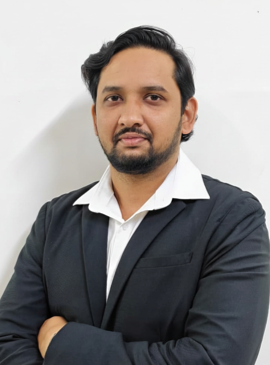
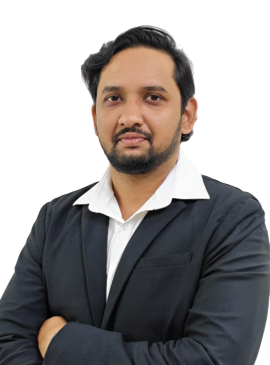
Team: CEO first, uniform grey gradient cards, photos in colour with hover zoom

diff --git a/src/data/media.js b/src/data/media.js
@@ -22,48 +22,48 @@
    A flat 58% dark overlay sits on top, so mid-tone images with
    space on the left work best — that is where the text sits. */
 export const heroes = {
-    home: "/hero/home.png",
-    about: "/hero/about.png",
-    productsServices: "/hero/products-services.png",
-    services: "",   // "/hero/services.jpg"
-    clients: "/hero/clients.png",
-    careers: "",    // "/hero/careers.jpg"
-    contact: "/hero/contact.png",
+  home: "/hero/home.png",
+  about: "/hero/about.png",
+  productsServices: "/hero/products-services.png",
+  services: "",   // "/hero/services.jpg"
+  clients: "/hero/clients.png",
+  careers: "",    // "/hero/careers.jpg"
+  contact: "/hero/contact.png",
 };
 
 /* ---------- PRODUCT CATEGORIES ----------
    Portrait, 4:5, at least 1000×1250.
    Added as we convert Products.jsx. */
 export const products = {
-    "mens-wear": "/products/mens-wear.png",
-    "womens-wear": "/products/womens-wear.png",
-    "kids-wear": "/products/kids-wear.png",
-    caps: "/products/caps.png",
-    "product-photography": "",
+  "mens-wear": "/products/mens-wear.png",
+  "womens-wear": "/products/womens-wear.png",
+  "kids-wear": "/products/kids-wear.png",
+  caps: "/products/caps.png",
+  "product-photography": "",
 };
 
 /* ---------- SERVICES ----------
    Landscape, 5:4, at least 1200×960.
    Added as we convert Services.jsx. */
 export const services = {
-    "design-development": "",
-    sampling: "",
-    manufacturing: "",
-    "fabric-sourcing": "",
+  "design-development": "",
+  sampling: "",
+  manufacturing: "",
+  "fabric-sourcing": "",
 };
 
 /* ---------- ABOUT / COMPANY ----------
    Added as we convert About.jsx. */
 export const about = {
-    overview: "/about/overview.png",   // facility or head office, 5:4
-      ceoPortrait: "/about/ceo.png",        // desktop cut-out, transparent PNG, full length
-    designStudio: "/about/design-studio.png",
-    chinaSourcing: "/about/china-sourcing.png",
+  overview: "/about/overview.png",   // facility or head office, 5:4
+  ceoPortrait: "/about/ceo.png",        // desktop cut-out, transparent PNG, full length
+  designStudio: "/about/design-studio.png",
+  chinaSourcing: "/about/china-sourcing.png",
 };
 
 /* ---------- CAREERS ---------- */
 export const careers = {
-    lifeAtPfg: "",     // 5:4
+  lifeAtPfg: "",     // 5:4
 };
 
 /* ---------- CLIENT LOGOS ----------
@@ -75,36 +75,36 @@ export const careers = {
    Replace each "Client" with the real brand name once known — it becomes
    the alt text and what buyers and search engines actually read. */
 export const clientLogos = [
-    { name: "Client", logo: "/clients/client-01.png" },
-    { name: "Client", logo: "/clients/client-02.png" },
-    { name: "Client", logo: "/clients/client-03.jpg" },
-    { name: "Client", logo: "/clients/client-04.png" },
-    { name: "Client", logo: "/clients/client-05.png" },
-    { name: "Client", logo: "/clients/client-06.png" },
-    { name: "Client", logo: "/clients/client-07.png" },
-    { name: "Client", logo: "/clients/client-08.png" },
-    { name: "Client", logo: "/clients/client-09.png" },
-    { name: "Client", logo: "/clients/client-10.png" },
-    { name: "Client", logo: "/clients/client-11.jpg" },
-    { name: "Client", logo: "/clients/client-12.png" },
-    { name: "Client", logo: "/clients/client-13.png" },
-    { name: "Client", logo: "/clients/client-14.png" },
-    { name: "Client", logo: "/clients/client-15.jpg" },
-    { name: "Client", logo: "/clients/client-16.png" },
-    { name: "Client", logo: "/clients/client-17.jpg" },
-    { name: "Client", logo: "/clients/client-18.png" },
-    { name: "Client", logo: "/clients/client-19.jpg" },
-    { name: "Client", logo: "/clients/client-20.jpg" },
-    { name: "Client", logo: "/clients/client-21.png" },
-    { name: "Client", logo: "/clients/client-22.jpg" },
-    { name: "Client", logo: "/clients/client-23.png" },
-    { name: "Client", logo: "/clients/client-24.png" },
-    { name: "Client", logo: "/clients/client-25.jpg" },
-    { name: "Client", logo: "/clients/client-26.jpg" },
-    { name: "Client", logo: "/clients/client-27.png" },
-    { name: "Client", logo: "/clients/client-28.jpg" },
-    { name: "Client", logo: "/clients/client-29.jpg" },
-    { name: "Client", logo: "/clients/client-30.jpg" },
+  { name: "Client", logo: "/clients/client-01.png" },
+  { name: "Client", logo: "/clients/client-02.png" },
+  { name: "Client", logo: "/clients/client-03.jpg" },
+  { name: "Client", logo: "/clients/client-04.png" },
+  { name: "Client", logo: "/clients/client-05.png" },
+  { name: "Client", logo: "/clients/client-06.png" },
+  { name: "Client", logo: "/clients/client-07.png" },
+  { name: "Client", logo: "/clients/client-08.png" },
+  { name: "Client", logo: "/clients/client-09.png" },
+  { name: "Client", logo: "/clients/client-10.png" },
+  { name: "Client", logo: "/clients/client-11.jpg" },
+  { name: "Client", logo: "/clients/client-12.png" },
+  { name: "Client", logo: "/clients/client-13.png" },
+  { name: "Client", logo: "/clients/client-14.png" },
+  { name: "Client", logo: "/clients/client-15.jpg" },
+  { name: "Client", logo: "/clients/client-16.png" },
+  { name: "Client", logo: "/clients/client-17.jpg" },
+  { name: "Client", logo: "/clients/client-18.png" },
+  { name: "Client", logo: "/clients/client-19.jpg" },
+  { name: "Client", logo: "/clients/client-20.jpg" },
+  { name: "Client", logo: "/clients/client-21.png" },
+  { name: "Client", logo: "/clients/client-22.jpg" },
+  { name: "Client", logo: "/clients/client-23.png" },
+  { name: "Client", logo: "/clients/client-24.png" },
+  { name: "Client", logo: "/clients/client-25.jpg" },
+  { name: "Client", logo: "/clients/client-26.jpg" },
+  { name: "Client", logo: "/clients/client-27.png" },
+  { name: "Client", logo: "/clients/client-28.jpg" },
+  { name: "Client", logo: "/clients/client-29.jpg" },
+  { name: "Client", logo: "/clients/client-30.jpg" },
 ];
 
 /* ---------- HELPER ----------
@@ -134,12 +134,12 @@ export const hasMedia = (path) => typeof path === "string" && path.length > 0;
    Files in public/brands/. Update the names as confirmed —
    they become the alt text. */
 export const brands = [
-    { name: "Lexi Morgan", logo: "/brands/brand-01.png" },
-    { name: "Brand partner", logo: "/brands/brand-02.png" },
-    { name: "Qube", logo: "/brands/brand-03.png" },
-    { name: "Premier Sport", logo: "/brands/brand-04.png" },
-    { name: "Premier Life", logo: "/brands/brand-05.png" },
-    { name: "Brand partner", logo: "/brands/brand-06.png" },
+  { name: "Lexi Morgan", logo: "/brands/brand-01.png" },
+  { name: "Brand partner", logo: "/brands/brand-02.png" },
+  { name: "Qube", logo: "/brands/brand-03.png" },
+  { name: "Premier Sport", logo: "/brands/brand-04.png" },
+  { name: "Premier Life", logo: "/brands/brand-05.png" },
+  { name: "Brand partner", logo: "/brands/brand-06.png" },
 ];
 
 /* ---------- CATEGORY TILES ----------
@@ -156,9 +156,9 @@ export const categoryImages = {
 };
 
 export const teamPhotos = {
-  jamaluddin: "/about/ceo.png",
-  "farhan-raza": "/team/raza-farhan.png",
-  "abdul-ahad": "/team/abdul-ahad.png",
+  jamaluddin: "/team/jamaluddin.png",
+  "farhan-raza": "/team/raza-farhan.webp",
+  "abdul-ahad": "/team/abdul-ahad.webp",
   "chu-dao-linh-suong": "/team/chu-dao-linh-suong.png",
   "kadiravelu-saravana-kumar": "/team/kadiravelu-saravana-kumar.png",
   "ketan-patel": "/team/ketan-patel.png",

diff --git a/src/sections/Team.jsx b/src/sections/Team.jsx
@@ -31,16 +31,13 @@ export default function Team() {
                                 <article className="group h-full cursor-pointer">
                                     {/* one shared grey ground behind every portrait, so
                       background-removed PNGs all sit on the same card */}
-                                    <div className="relative overflow-hidden bg-page transition-shadow duration-300 group-hover:shadow-[0_16px_34px_-20px_rgba(11,115,181,0.5)]">
+                                    <div className="relative overflow-hidden bg-[linear-gradient(180deg,#9AA3AA_0%,#6B7580_100%)] transition-shadow duration-300 group-hover:shadow-[0_16px_34px_-20px_rgba(11,115,181,0.5)]">
                                         {hasMedia(photo) ? (
                                             <img
                                                 src={photo}
                                                 alt={`${member.name}, ${member.role}`}
                                                 loading="lazy"
-                                                className={clsx(
-                                                    "aspect-[3/4] w-full object-cover object-top transition-all duration-500 ease-out",
-                                                    "md:grayscale md:group-hover:scale-[1.06] md:group-hover:grayscale-0"
-                                                )}
+                                                className="aspect-[3/4] w-full object-cover object-top transition-transform duration-500 ease-out group-hover:scale-[1.06]"
                                             />
                                         ) : (
                                             <div
